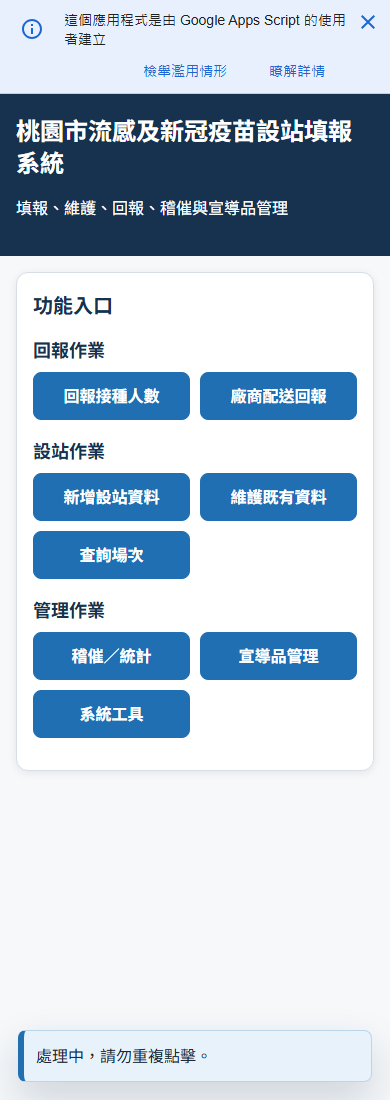
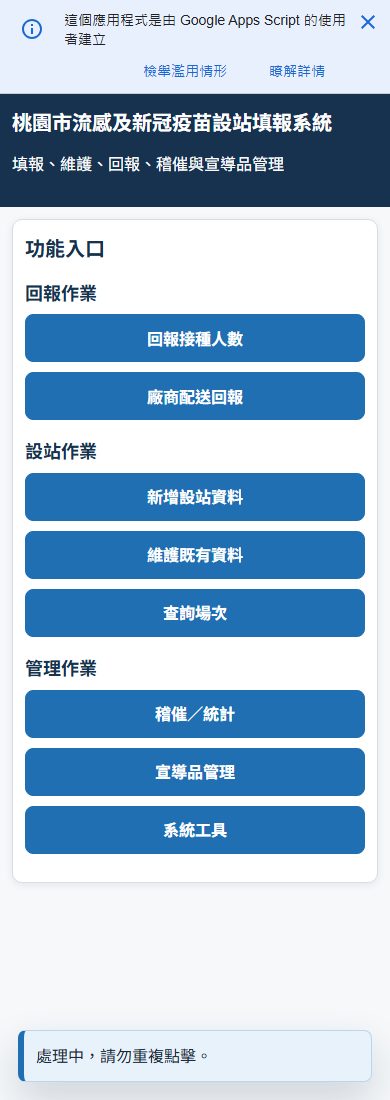
[測試證據] test：更新GAS部署後首頁截圖

diff --git a/流感及新冠疫苗社區設站網站/version.py b/流感及新冠疫苗社區設站網站/version.py
@@ -1,3 +1,3 @@
-VERSION = "0.67.1"
+VERSION = "0.67.2"
 PROJECT_NAME = "流感及新冠疫苗社區設站網站"
 UPDATED_AT = "2026-07-03"

diff --git a/流感及新冠疫苗社區設站網站/docs/AI_HANDOVER.md b/流感及新冠疫苗社區設站網站/docs/AI_HANDOVER.md
@@ -1,5 +1,10 @@
 # AI_HANDOVER.md
 
+## 最近一次修改摘要：0.67.2 - 2026-07-03
+
+1. 更新部署後 GAS Web App 首頁測試截圖 `docs/test-evidence/gas-webapp-home.png`。
+2. 本次只更新測試證據與版本紀錄，未改動 GAS 或 Firebase 正式功能。
+
 ## 最近一次修改摘要：0.67.1 - 2026-07-03
 
 1. 修正 `scripts/online-check.mjs` 的公開 JSON 規格檢查，允許 `public.json` 根層包含 `villages`。

diff --git a/流感及新冠疫苗社區設站網站/CHANGELOG.md b/流感及新冠疫苗社區設站網站/CHANGELOG.md
@@ -1,5 +1,11 @@
 # Changelog
 
+## [0.67.2] - 2026-07-03
+
+### Tested
+
+- 更新部署後 GAS Web App 首頁測試截圖：`docs/test-evidence/gas-webapp-home.png`。
+
 ## [0.67.1] - 2026-07-03
 
 ### Fixed
